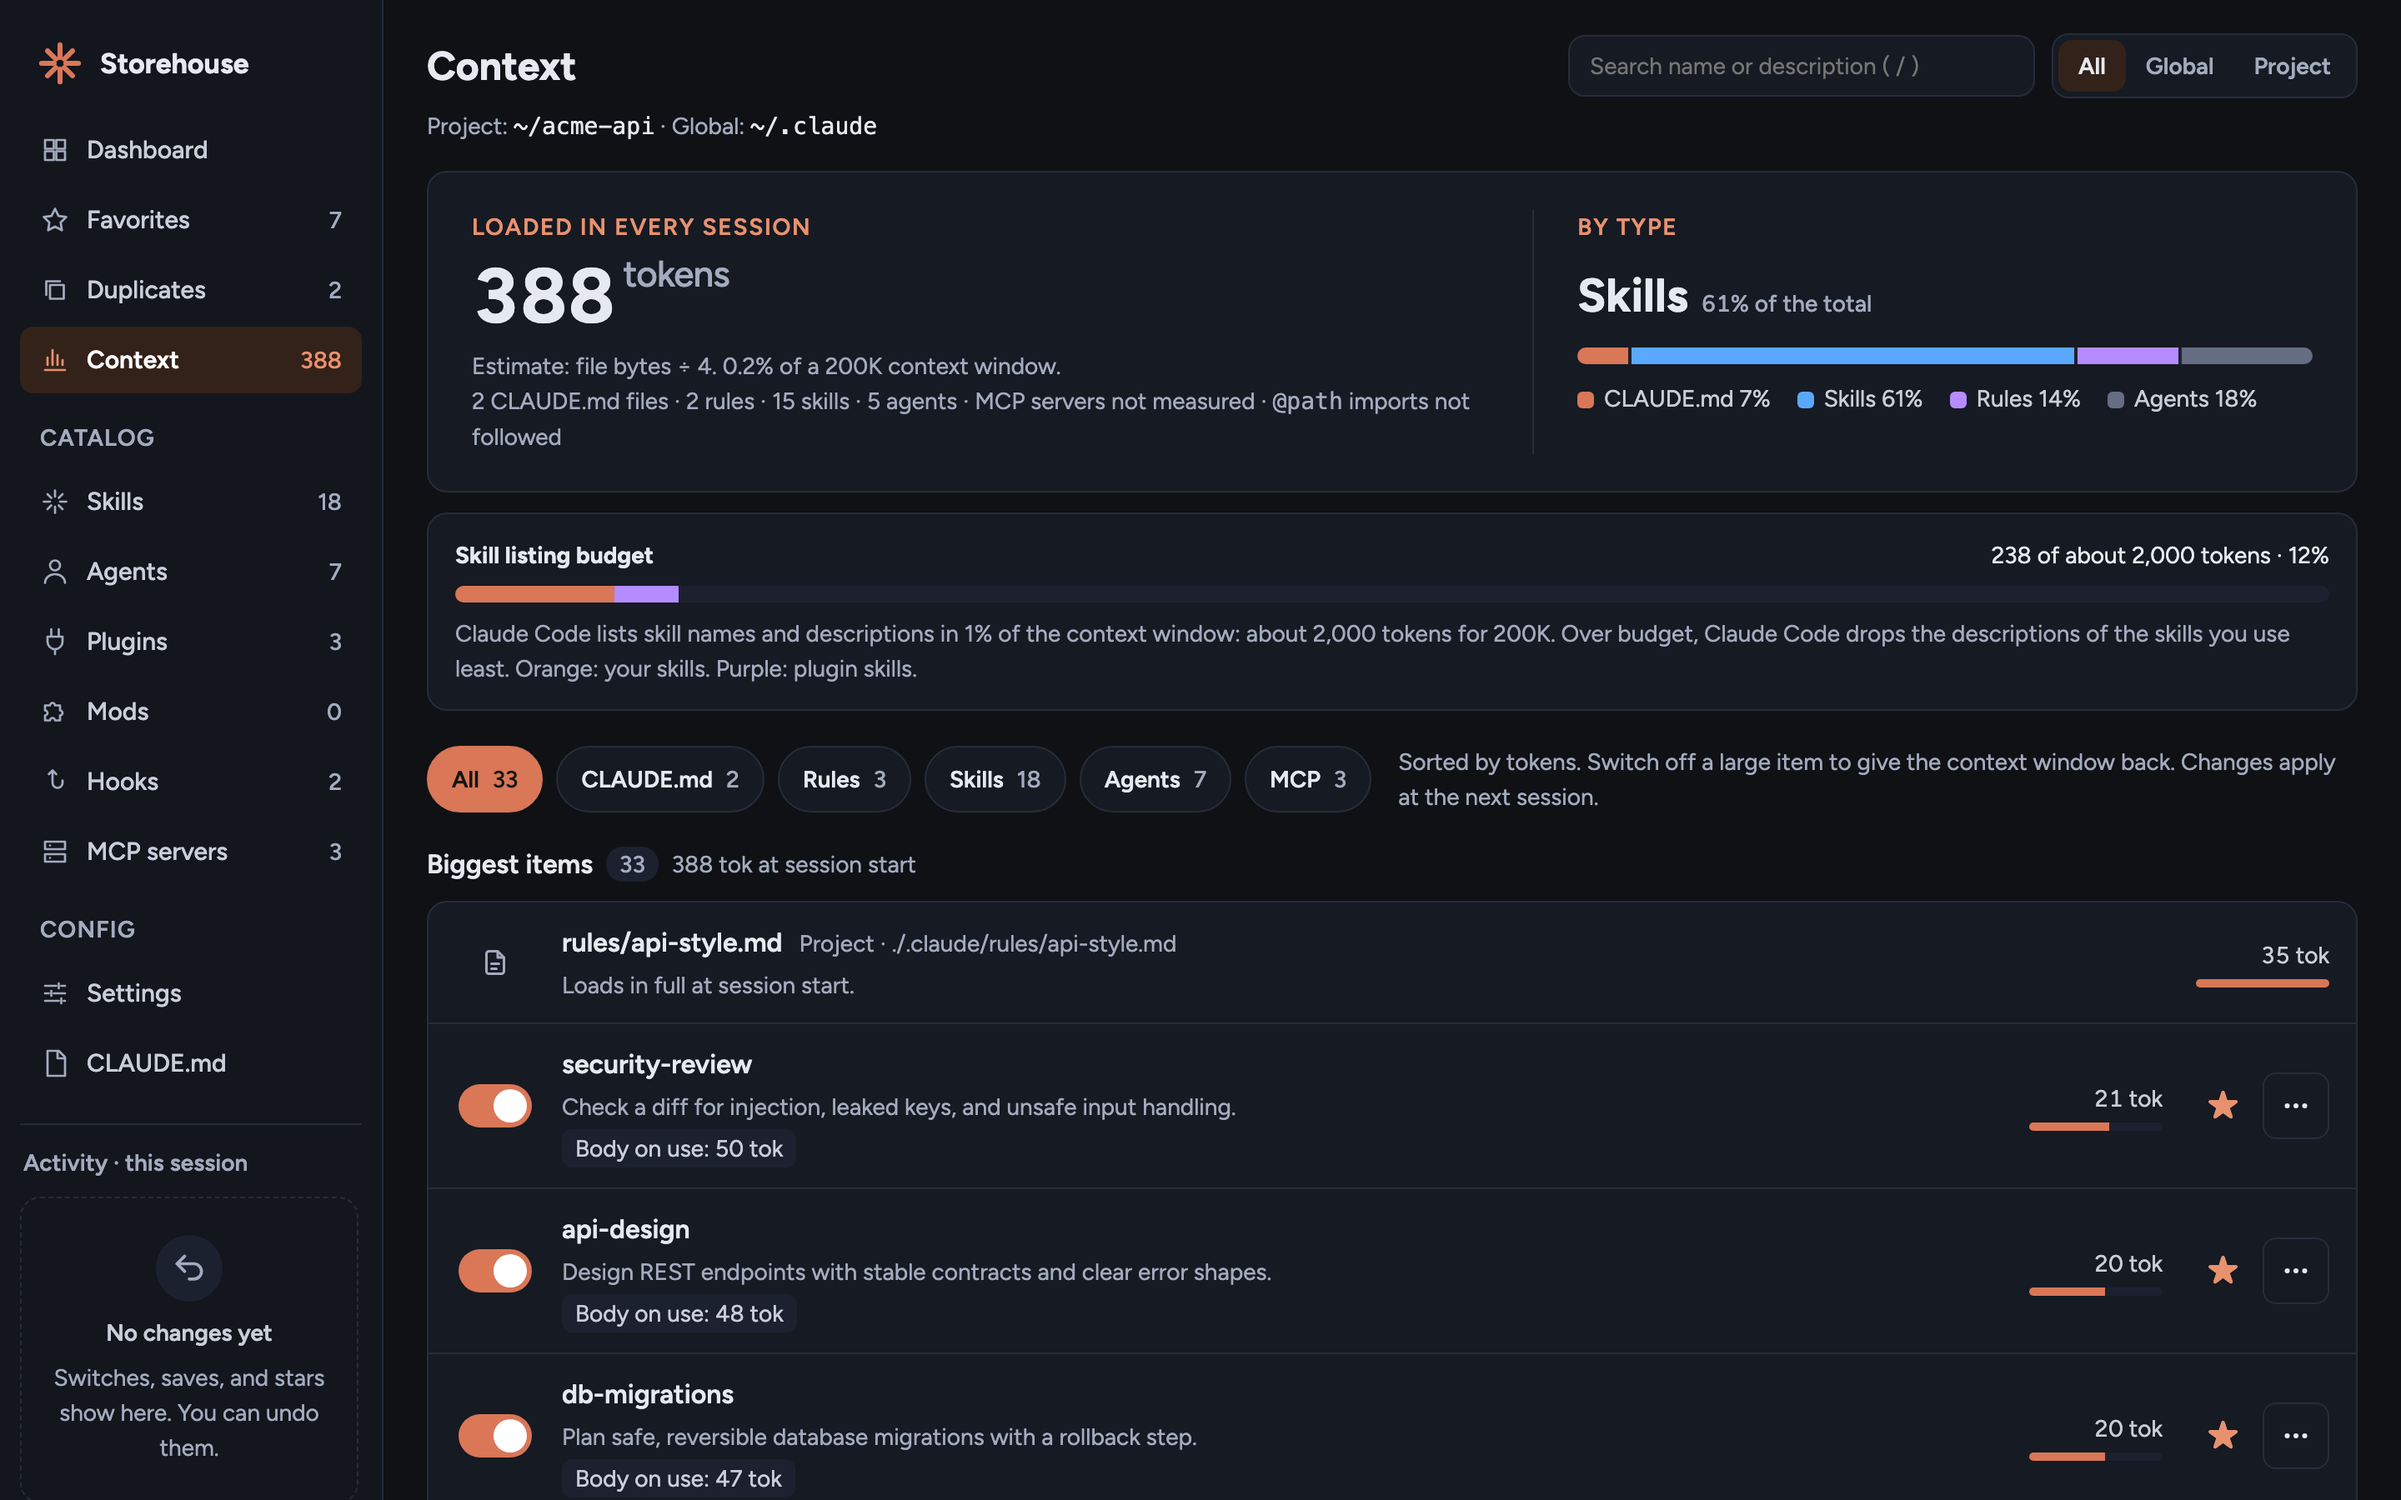
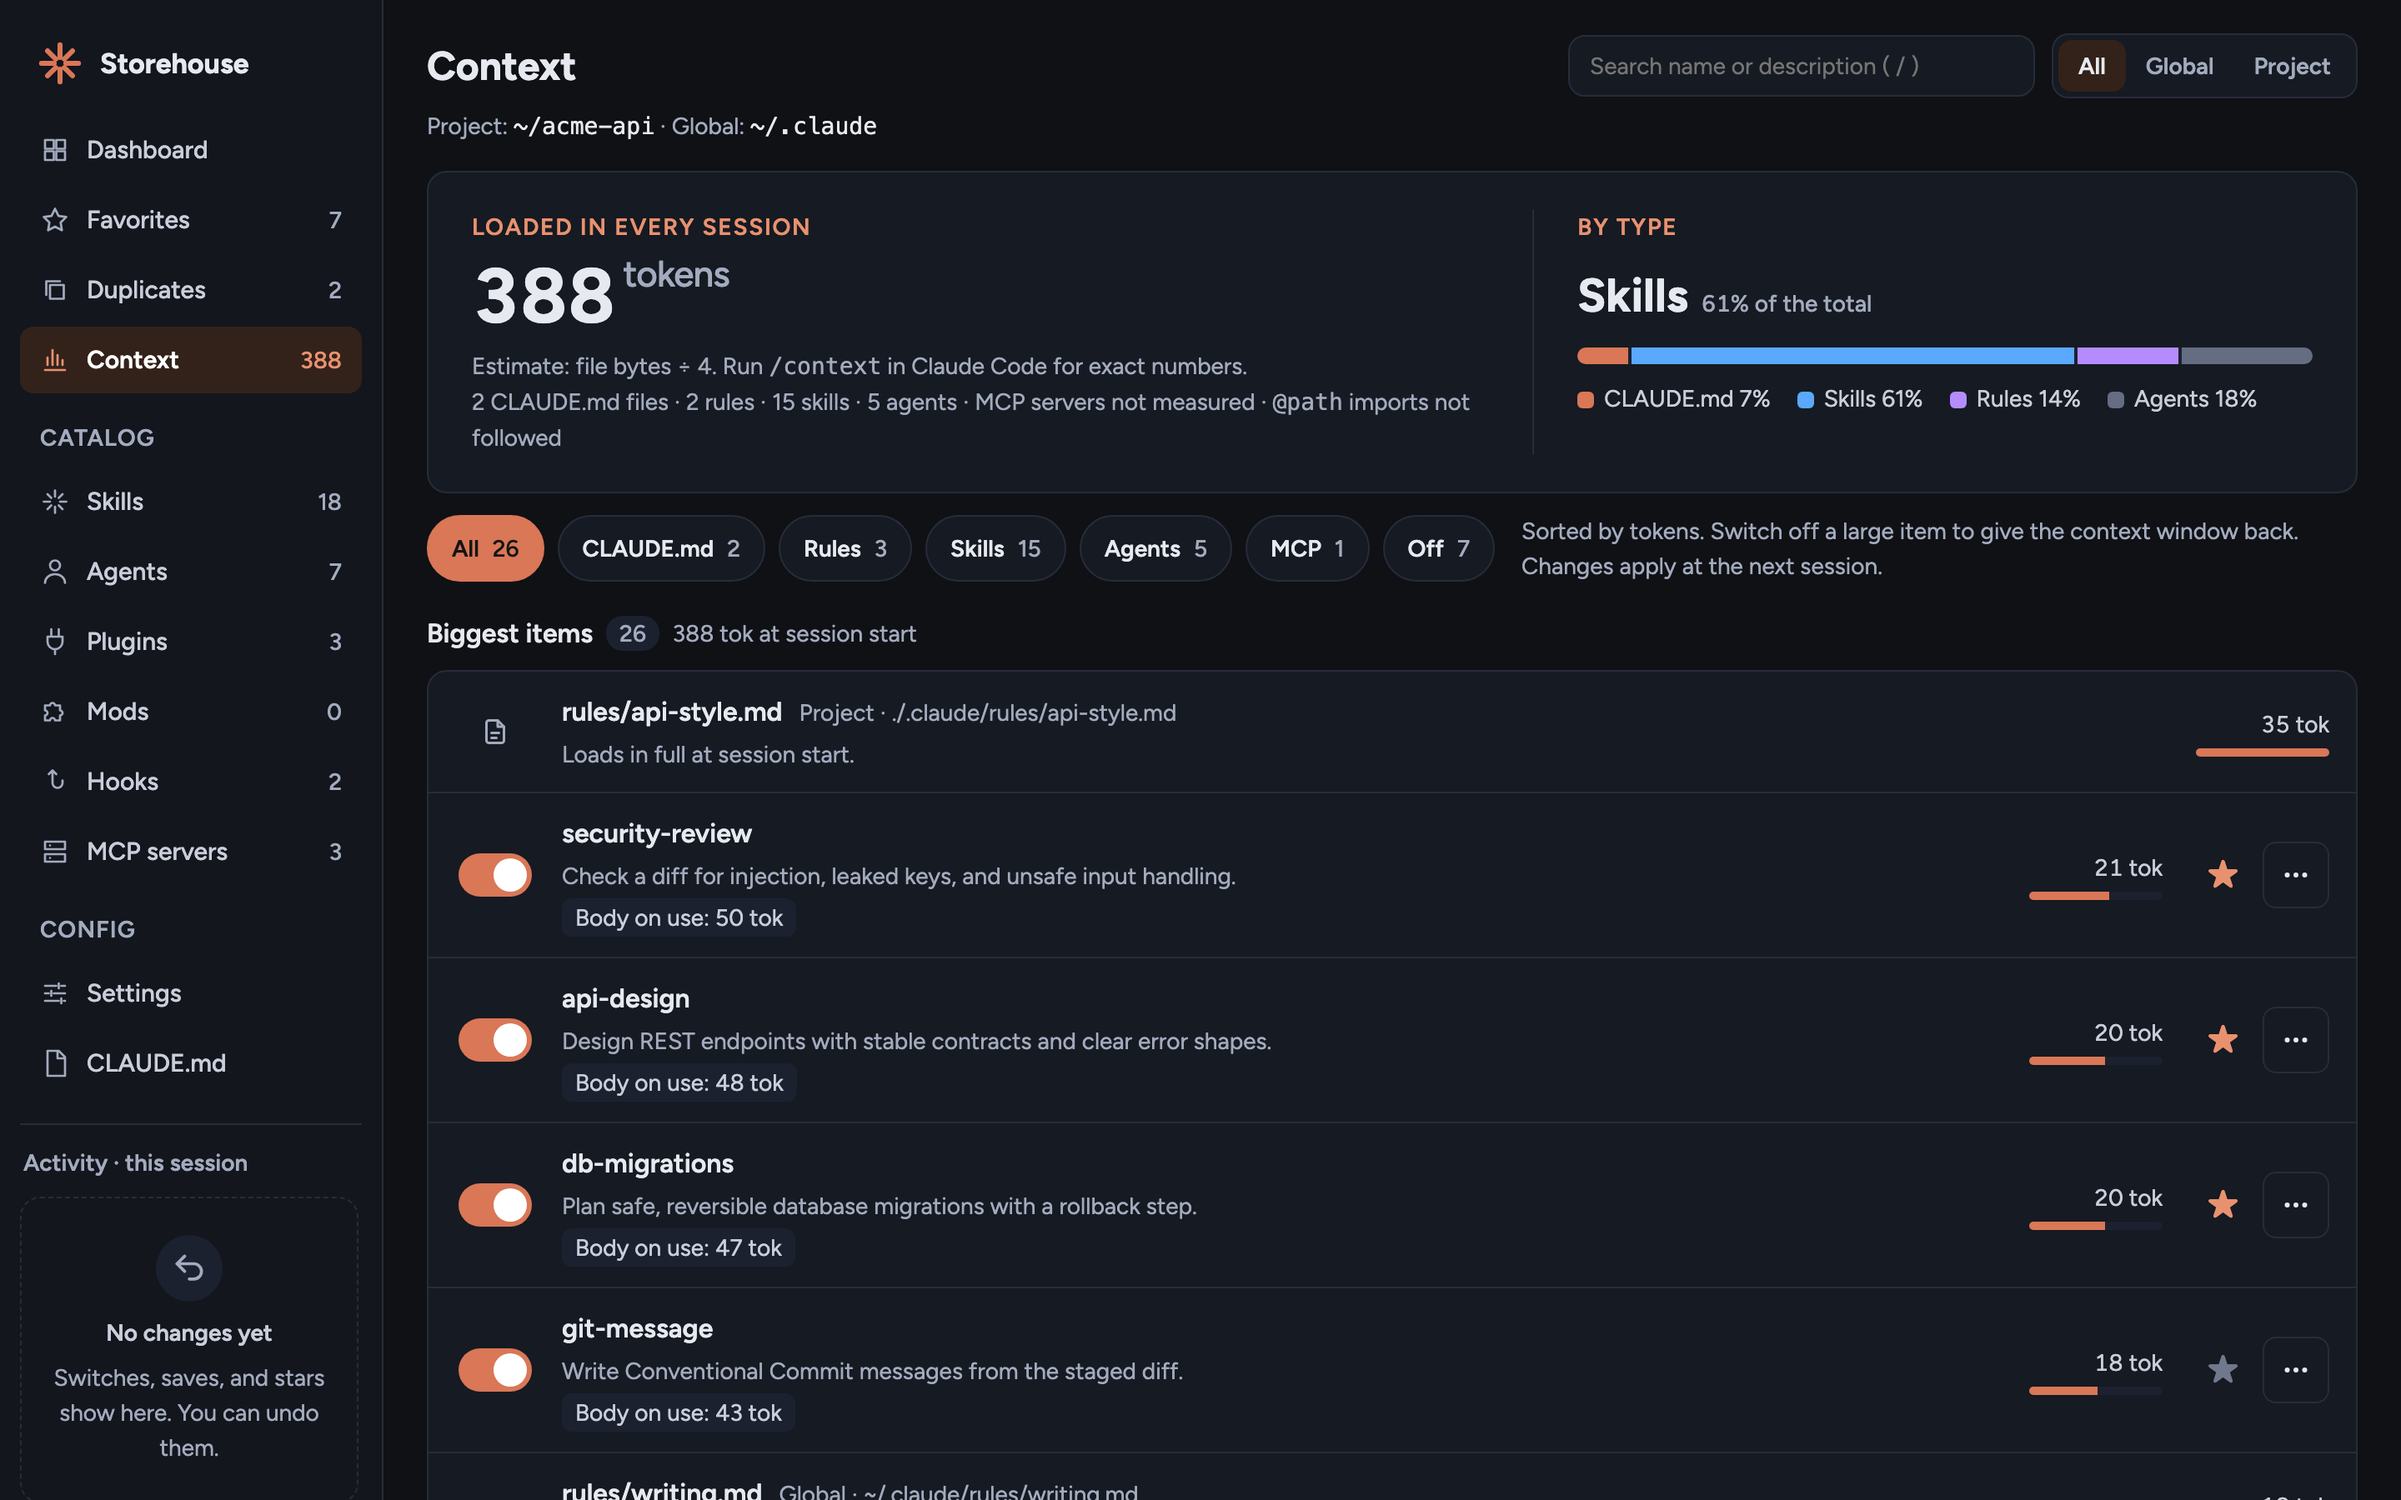
fix(ui): remove skill budget meter and add Off chip on Context page

diff --git a/public/app.js b/public/app.js
@@ -847,7 +847,8 @@ const CHIPS = {
     ['rules', 'Rules'],
     ['skills', 'Skills'],
     ['agents', 'Agents'],
-    ['mcp', 'MCP']
+    ['mcp', 'MCP'],
+    ['off', 'Off']
   ],
   dups: [
     ['all', 'All'],
@@ -1092,7 +1093,7 @@ function keepChip(page, item) {
 function chipCounts(page, list) {
   if (page === 'dups') return { all: list.length, needs: list.filter(needsAction).length }
   if (page === 'context')
-    return Object.fromEntries(CHIPS.context.map(([k]) => [k, list.filter((e) => k === 'all' || e.type === k).length]))
+    return Object.fromEntries(CHIPS.context.map(([k]) => [k, list.filter((e) => keepCtx(e, k)).length]))
   const shown = list.filter(visible)
   if (page === 'mods') {
     const own = shown.filter((m) => !m.dev)
@@ -1244,8 +1245,6 @@ async function keepOnly(item) {
 }
 
 const TOKEN_BYTES = 4
-const WINDOW_TOKENS = 200000
-const LISTING_BUDGET = WINDOW_TOKENS / 100
 const DESC_CAP = 1536
 const CTX_TYPES = [
   ['claudemd', 'CLAUDE.md', 'm0'],
@@ -1413,12 +1412,11 @@ function contextBandHtml(list) {
     plural(on('skills'), 'skill'),
     plural(on('agents'), 'agent')
   ]
-  const share = ((total / WINDOW_TOKENS) * 100).toFixed(1)
   return `<section class="usage" aria-label="Context cost">
       <div>
         <div class="k">Loaded in every session</div>
         <div class="big" id="ctx-total">${total.toLocaleString('en-US')}<small> tokens</small></div>
-        <p>Estimate: file bytes ÷ ${TOKEN_BYTES}. ${share}% of a 200K context window.<br>${esc(parts.join(' · '))} · MCP servers not measured · <code>@path</code> imports not followed</p>
+        <p>Estimate: file bytes ÷ ${TOKEN_BYTES}. Run <code>/context</code> in Claude Code for exact numbers.<br>${esc(parts.join(' · '))} · MCP servers not measured · <code>@path</code> imports not followed</p>
       </div>
       <div class="right">
         <div class="k">By type</div>
@@ -1431,35 +1429,29 @@ function contextBandHtml(list) {
     </section>`
 }
 
-function budgetHtml(list) {
-  const skills = list.filter((e) => e.type === 'skills')
-  const own = sumTokens(skills.filter((e) => e.scope !== 'plugin'))
-  const fromPlugins = sumTokens(skills.filter((e) => e.scope === 'plugin'))
-  const used = own + fromPlugins
-  const pct = (used / LISTING_BUDGET) * 100
-  const scale = Math.max(used, LISTING_BUDGET)
-  const over = used > LISTING_BUDGET
-  return `<div class="budget${over ? ' over' : ''}">
-      <div class="bt"><b>Skill listing budget</b><span>${used.toLocaleString('en-US')} of about ${LISTING_BUDGET.toLocaleString('en-US')} tokens · ${pct.toFixed(0)}%</span></div>
-      <div class="meter" role="img" aria-label="${esc(`${pct.toFixed(0)} percent of the skill listing budget used`)}"><span style="width:${(own / scale) * 100}%;background:var(--accent)"></span><span style="width:${(fromPlugins / scale) * 100}%;background:var(--purple)"></span></div>
-      <small>Claude Code lists skill names and descriptions in 1% of the context window: about ${LISTING_BUDGET.toLocaleString('en-US')} tokens for 200K. ${over ? '<b>Over budget:</b> Claude Code drops the descriptions of the skills you use least, and Claude can miss a skill.' : 'Over budget, Claude Code drops the descriptions of the skills you use least.'} Orange: your skills. Purple: plugin skills.</small>
-    </div>`
+function isOff(e) {
+  return Boolean(e.item) && !e.enabled
+}
+
+function keepCtx(e, f) {
+  if (f === 'off') return isOff(e)
+  return !isOff(e) && (f === 'all' || e.type === f)
 }
 
 function renderContext() {
-  const every = contextItems()
-  const all = every.filter(visible)
-  const shown = all.filter((e) => chipFilter.context === 'all' || e.type === chipFilter.context)
+  const all = contextItems().filter(visible)
+  const off = chipFilter.context === 'off'
+  const shown = all.filter((e) => keepCtx(e, chipFilter.context))
   const max = Math.max(1, ...all.map((e) => e.always))
   const dups = new Set(duplicateGroups().flatMap((g) => g.items.map((i) => i.key)))
   const note =
     'Sorted by tokens. Switch off a large item to give the context window back. Changes apply at the next session.'
   const body = shown.length
-    ? `<h2>Biggest items <span class="pill">${shown.length}</span><span class="hint">${esc(`${tok(sumTokens(shown))} at session start`)}</span></h2><ul class="rows" data-rows="context">${shown.map((e) => ctxRow(e, max, dups)).join('')}</ul>`
+    ? `<h2>${off ? 'Switched off' : 'Biggest items'} <span class="pill">${shown.length}</span><span class="hint">${esc(off ? `${tok(shown.reduce((sum, e) => sum + (e.cost ?? 0), 0))} saved while off` : `${tok(sumTokens(shown))} at session start`)}</span></h2><ul class="rows" data-rows="context">${shown.map((e) => ctxRow(e, max, dups)).join('')}</ul>`
     : all.length
       ? empty('No items match this filter.')
       : nothingMatches()
-  $('p-context').innerHTML = contextBandHtml(all) + budgetHtml(every) + chipsHtml('context', all, note) + body
+  $('p-context').innerHTML = contextBandHtml(all) + chipsHtml('context', all, note) + body
 }
 
 function catalogBody(page, list) {

diff --git a/site/index.html b/site/index.html
@@ -384,16 +384,16 @@
             </p>
             <ul>
               <li>CLAUDE.md files, rules, skill and agent descriptions</li>
-              <li>A meter for the skill listing budget</li>
+              <li>An Off chip shows what each switched-off item saves</li>
               <li>Switch an item off and the total goes down</li>
-              <li>A token chip on each skill and agent row</li>
+              <li>A token chip on the Skills and Agents pages</li>
             </ul>
             <a class="more" href="#demo" data-demo="context">See context cost in the demo →</a>
           </div>
           <figure class="frame">
             <img
               src="screenshots/context.png"
-              alt="Context page with the tokens loaded in every session, a bar by type, the skill listing budget, and items sorted by tokens"
+              alt="Context page with the tokens loaded in every session, a bar by type, filter chips, and items sorted by tokens"
               loading="lazy"
               width="2880"
               height="1800"

diff --git a/public/app.css b/public/app.css
@@ -2868,42 +2868,6 @@ select {
 .mchip.dupc:hover {
   text-decoration: underline;
 }
-.budget {
-  display: grid;
-  gap: 8px;
-  margin-bottom: 20px;
-  padding: 14px 16px;
-  border: 1px solid var(--line);
-  border-radius: 12px;
-  background: var(--panel);
-}
-.budget .bt {
-  display: flex;
-  flex-wrap: wrap;
-  justify-content: space-between;
-  gap: 12px;
-}
-.budget .meter {
-  display: flex;
-  height: 10px;
-  border-radius: 6px;
-  background: var(--panel2);
-  overflow: hidden;
-}
-.budget .meter span {
-  height: 100%;
-}
-.budget small {
-  font-size: 14px;
-  color: var(--muted);
-}
-.budget.over {
-  border-color: var(--red);
-}
-.budget.over .bt span,
-.budget.over small b {
-  color: var(--red);
-}
 .lrow .tail {
   flex: none;
   display: flex;

diff --git a/.claude/rules/business-logic.md b/.claude/rules/business-logic.md
@@ -112,7 +112,8 @@ The Context page estimates the tokens that each item adds to every session. The 
 
 - Estimate: `tokens = Math.ceil(bytes / 4)`. One constant, `TOKEN_BYTES`, in `public/app.js`.
 - A skill or agent costs its `name: description` bytes. The description is cut at 1,536 characters, the Claude Code cap.
-- Skill listing budget: 1% of the context window, about 2,000 tokens for 200K. Over budget, Claude Code drops the descriptions of the least-used skills. Source: code.claude.com/docs/en/skills.
+- No skill listing budget meter. Claude Code's listing budget is a character budget at 1% of the model's context window, changed by `skillListingBudgetFraction`, `SLASH_COMMAND_TOOL_CHAR_BUDGET`, and `skillOverrides: "name-only"`. Storehouse cannot know the model, so the page points to `/context`, which reports the listing after the budget. Source: code.claude.com/docs/en/skills, "Skill descriptions are cut short".
+- The list and the type chips show only items that load. The Off chip lists items that are off and the tokens they save.
 - The scanner reads rules recursively from `~/.claude/rules` and `./.claude/rules`. It skips names that start with `.`, non-`.md` files, symlinked folders, and symlinked files whose real path is outside the home folder and the project folder. A rule is conditional when its frontmatter `paths` has at least one entry.
 - An item that is off counts 0. Its row shows "Saves NN tok while off".
 - A skill with a duplicate name counts once for each copy. The row links to Duplicates.

diff --git a/README.md b/README.md
@@ -92,11 +92,12 @@ After a few months with Claude Code you have dozens of skills, a handful of plug
 
 - The Context page estimates the tokens that each item adds to every session before you type a word.
 - It counts CLAUDE.md files, rules in `.claude/rules/`, and skill and agent descriptions. The estimate is file bytes ÷ 4.
-- A meter shows the skill listing budget: 1% of the context window, about 2,000 tokens for 200K.
+- The list shows only items that load. The Off chip lists switched-off items and the tokens they save.
 - Items sort by tokens, each with its switch. Switch one off and the total goes down.
-- Each skill and agent row shows a small token chip.
+- Rows on the Skills and Agents pages show a small token chip.
+- For exact numbers, run `/context` in Claude Code.
 
-![Context page with the tokens loaded in every session, a bar by type, the skill listing budget, and items sorted by tokens](https://raw.githubusercontent.com/Sumonta056/claude-storehouse/main/docs/images/context.png)
+![Context page with the tokens loaded in every session, a bar by type, filter chips, and items sorted by tokens](https://raw.githubusercontent.com/Sumonta056/claude-storehouse/main/docs/images/context.png)
 
 ### Favorites
 
